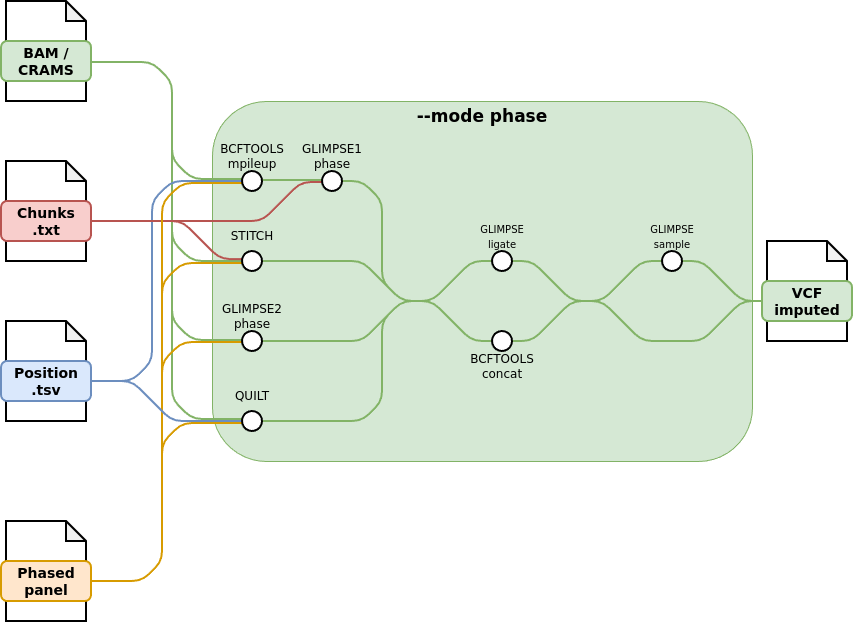
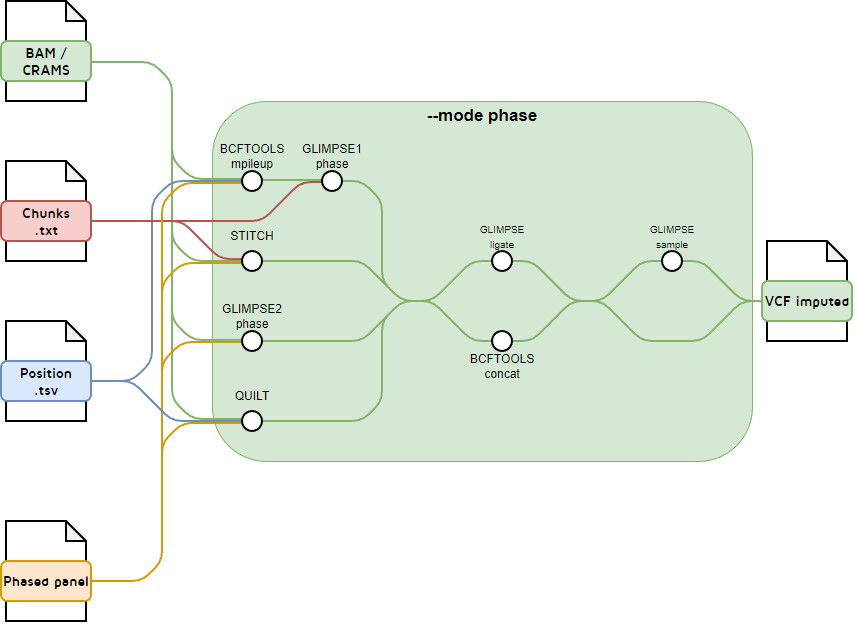
Update metromap and add documentation in ReadMe

diff --git a/README.md b/README.md
@@ -62,7 +62,18 @@ The nf-core/phaseimpute pipeline comes with documentation about the pipeline, fo
 4. [Output and how to interpret the results](docs/output.md)
 5. [Troubleshooting](https://nf-co.re/usage/troubleshooting)
 
-<!-- TODO nf-core: Add a brief overview of what the pipeline does and how it works -->
+## Description of the different mode of the pipeline
+
+Here is a short description of the different mode of the pipeline.
+For more information please refer to the [documentation](https://nf-core.github.io/phaseimpute/usage/).
+
+|       Mode        |                         Flow chart                              |                                         Description                                    |
+|-------------------|-----------------------------------------------------------------|----------------------------------------------------------------------------------------|
+| **Preprocessing** | <img src="docs/images/metro/preprocessing.png" alt="phase_metro" width="600"/> | The preprocessing mode is responsible to the preparation of the multiple input file that will be used by the phasing process. <br> The main processes are : <br> - **Haplotypes phasing** of the reference panel using [**Shapeit5**](https://odelaneau.github.io/shapeit5/). <br> - **Filter** the reference panel to select only the necessary variants. <br> - **Chunking the reference panel** in a subset of region for all the chromosomes. <br> - **Extract** the positions where to perform the imputation.|
+| **Phasing**       | <img src="docs/images/metro/phase.png" alt="phase_metro" width="600"/> | The phasing mode is the core mode of this pipeline. <br> It is constituted of 3 main steps: <br> - **Phasing**: Phasing of the target dataset on the reference panel using either: <br> &emsp; - [**Glimpse1**](https://odelaneau.github.io/GLIMPSE/glimpse1/index.html) <br> &emsp; It's come with the necessety to compute the genotype likelihoods of the target dataset. <br> &emsp; This step is done using [BCFTOOLS_mpileup](https://samtools.github.io/bcftools/bcftools.html#mpileup) <br> &emsp; - [**Glimpse2**](https://odelaneau.github.io/GLIMPSE/glimpse2/index.html) For this step the reference panel is transformed to binary chunks. <br> &emsp; - [**Stitch**](https://github.com/rwdavies/stitch) <br> &emsp; - [**Quilt**](https://github.com/rwdavies/QUILT) <br> - **Ligation**: all the different chunks are merged together. <br> - **Sampling** (optional) |
+| **Simulate**      | <img src="docs/images/metro/simulate.png" alt="simulate_metro" width="600"/> | The simulation mode is used to create artificial low informative genetic information from high density data. This allow to compare the imputed result to a *truth* and therefore evaluate the quality of the imputation. <br> For the moment it is possible to simulate: <br> - Low-pass data by **downsample** BAM or CRAM using [SAMTOOLS_view -s]() at different depth <br> - Genotype data by **SNP selecting** the position used by a designated SNP chip. <br> The simulation mode will also compute the **Genotype likelihoods** of the high density data. |
+| **Concordance**   | <img src="docs/images/metro/concordance.png" alt="concordance_metro" width="600"/> | This mode compare two vcf together to compute a summary of the differences between them. <br> To do so it use either: <br> - [**Glimpse1**](https://odelaneau.github.io/GLIMPSE/glimpse1/index.html) concordance process. <br> - [**Glimpse2**](https://odelaneau.github.io/GLIMPSE/glimpse2/index.html) concordance process <br> - Or convert the two vcf fill to `.zarr` using [**Scikit allele**](https://scikit-allel.readthedocs.io/en/stable/) and [**anndata**](https://anndata.readthedocs.io/en/latest/) before comparing the SNPs. |
+| **Postprocessing**| <img src="docs/images/metro/postprocessing.png" alt="postprocessing_metro" width="600"/> | This final process unable to loop the whole pipeline for increasing the performance of the imputation. To do so it filter out the best imputed position and rerun the analysis using this positions. |
 
 ## Credits
 
